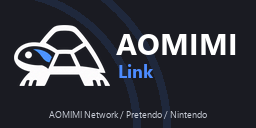
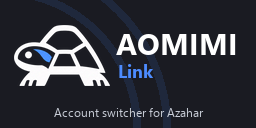
Rewrite README, add event friends on switch, clean up other accounts
- README.md (English) and README.ja.md (Japanese) describe AOMIMI Link
  instead of Nimbus, in the style of the original README. LICENSE is kept
  as is.
- Add the AOMIMI event players right after switching to the AOMIMI account,
  before the reboot, and quietly on launch if they are missing.
- On the Nintendo and Pretendo Network accounts, remove leftover AOMIMI event
  players (PIDs 1999999001 and 1999999002) from the friend list.
- Home Menu: description "AOMIMI Link", publisher AOMIMIGAME; banner
  subtitle "Account switcher for Azahar".
- Update AOMIMI.md.

Changed region(s): [[0.1875, 0.8438, 0.8125, 0.9375]]

diff --git a/app/source/aomimi/aomimi.cpp b/app/source/aomimi/aomimi.cpp
@@ -5,6 +5,91 @@
 #include "../sysmodules/httpc.hpp"
 
 namespace {
+    // * イベントの相手をフレンドに足す。login なら必要に応じてログインする。report なら失敗を画面の文に残す
+    void addPlayers(MainStruct *mainStruct, bool login, bool report) {
+        constexpr s64 waitNanoseconds = 15000000000LL;
+
+        Handle event = 0;
+        Result rc = svcCreateEvent(&event, RESET_ONESHOT);
+        if (R_FAILED(rc)) {
+            if (report) {
+                LOG_NIMBUS_ERROR(mainStruct, std::format("Event players: event failed {:08X}", (u32)rc).c_str());
+            }
+            return;
+        }
+
+        bool online = false;
+        FRD_IsOnline(&online);
+        if (!online && login) {
+            rc = FRD_Login(event);
+            if (R_SUCCEEDED(rc)) {
+                rc = svcWaitSynchronization(event, waitNanoseconds);
+            }
+            FRD_IsOnline(&online);
+        }
+
+        if (!online) {
+            if (report) {
+                LOG_NIMBUS_ERROR(mainStruct, std::format("Event players: not online {:08X}", (u32)rc).c_str());
+            }
+            svcCloseHandle(event);
+            return;
+        }
+
+        bool added = false;
+        for (const u32 pid : Aomimi::EVENT_PLAYERS) {
+            u64 friendCode = 0;
+            bool known = false;
+            if (R_FAILED(FRD_PrincipalIdToFriendCode(pid, &friendCode)) || R_FAILED(FRD_IsInFriendList(friendCode, &known)) || known) {
+                continue;
+            }
+
+            svcClearEvent(event);
+            rc = FRDA_AddFriendOnline(event, pid);
+            if (R_SUCCEEDED(rc)) {
+                rc = svcWaitSynchronization(event, waitNanoseconds);
+            }
+            if (R_FAILED(rc)) {
+                if (report) {
+                    LOG_NIMBUS_ERROR(mainStruct, std::format("Event players: add failed {:08X}", (u32)rc).c_str());
+                }
+                continue;
+            }
+            added = true;
+        }
+
+        if (added) {
+            rc = FRDA_Save();
+            if (R_FAILED(rc) && report) {
+                LOG_NIMBUS_ERROR(mainStruct, std::format("Event players: save failed {:08X}", (u32)rc).c_str());
+            }
+        }
+
+        svcCloseHandle(event);
+    }
+
+    // * 今のアカウントのフレンド一覧から、イベントの相手だけを消す（ほかのフレンドには触らない）
+    void removeEventPlayers() {
+        constexpr u32 limit = 100; // * 3DS のフレンドは 100 人まで
+        static FriendKey keys[limit];
+        u32 count = 0;
+        if (R_FAILED(FRD_GetFriendKeyList(keys, &count, 0, limit))) {
+            return;
+        }
+
+        bool removed = false;
+        for (u32 n = 0; n < count && n < limit; n++) {
+            for (const u32 pid : Aomimi::EVENT_PLAYERS) {
+                if (keys[n].principalId == pid && R_SUCCEEDED(FRDA_RemoveFriend(pid, keys[n].localFriendCode))) {
+                    removed = true;
+                }
+            }
+        }
+        if (removed) {
+            FRDA_Save();
+        }
+    }
+
     constexpr Result ResultAlreadyExists = MAKERESULT(RL_STATUS, RS_INVALIDARG, RM_HTTP, RD_ALREADY_EXISTS);
     constexpr Result ResultNoAzaharCommand = MAKERESULT(RL_PERMANENT, RS_WRONGARG, RM_OS, 47);
 
@@ -69,59 +154,47 @@ namespace Aomimi {
     }
 
     void addEventPlayers(MainStruct *mainStruct) {
-        constexpr s64 waitNanoseconds = 15000000000LL;
+        addPlayers(mainStruct, true, true);
+    }
 
-        Handle event = 0;
-        Result rc = svcCreateEvent(&event, RESET_ONESHOT);
-        if (R_FAILED(rc)) {
-            LOG_NIMBUS_ERROR(mainStruct, std::format("Event players: event failed {:08X}", (u32)rc).c_str());
+    void addEventPlayersAfterSwitch(MainStruct *mainStruct) {
+        // * unloadAccount で入った「通信をしない状態」を解いて、ネットにつながるのを少し待つ
+        if (R_FAILED(NDMU_LeaveExclusiveState())) {
             return;
         }
-
-        bool online = false;
-        FRD_IsOnline(&online);
-        if (!online) {
-            rc = FRD_Login(event);
-            if (R_SUCCEEDED(rc)) {
-                rc = svcWaitSynchronization(event, waitNanoseconds);
+        const bool ac = R_SUCCEEDED(acInit());
+        if (ac) {
+            for (int n = 0; n < 40; n++) {
+                u32 status = 0;
+                if (R_SUCCEEDED(ACU_GetWifiStatus(&status)) && status != 0) {
+                    break;
+                }
+                svcSleepThread(250000000LL);
             }
-            FRD_IsOnline(&online);
         }
+        addPlayers(mainStruct, true, false);
+        if (ac) {
+            acExit();
+        }
+    }
 
-        if (!online) {
-            LOG_NIMBUS_ERROR(mainStruct, std::format("Event players: not online {:08X}", (u32)rc).c_str());
-            svcCloseHandle(event);
+    void checkEventPlayersOnce(MainStruct *mainStruct) {
+        static bool checked = false;
+        if (checked) {
             return;
         }
-
-        bool added = false;
-        for (const u32 pid : EVENT_PLAYERS) {
-            u64 friendCode = 0;
-            bool known = false;
-            if (R_FAILED(FRD_PrincipalIdToFriendCode(pid, &friendCode)) || R_FAILED(FRD_IsInFriendList(friendCode, &known)) || known) {
-                continue;
-            }
-
-            svcClearEvent(event);
-            rc = FRDA_AddFriendOnline(event, pid);
-            if (R_SUCCEEDED(rc)) {
-                rc = svcWaitSynchronization(event, waitNanoseconds);
-            }
-            if (R_FAILED(rc)) {
-                LOG_NIMBUS_ERROR(mainStruct, std::format("Event players: add failed {:08X}", (u32)rc).c_str());
-                continue;
-            }
-            added = true;
+        checked = true;
+        if (mainStruct->needsReboot || mainStruct->errorString[0] != 0) {
+            return;
         }
-
-        if (added) {
-            rc = FRDA_Save();
-            if (R_FAILED(rc)) {
-                LOG_NIMBUS_ERROR(mainStruct, std::format("Event players: save failed {:08X}", (u32)rc).c_str());
-            }
+        if (mainStruct->currentAccount != NascEnvironment::NASC_ENV_Dev) {
+            // * Pretendo や任天堂のアカウントに、前の版で足したイベントの相手が残っていれば消す。
+            // * この PID は AOMIMI Network の中だけの番号で、ほかのサーバーでは別の人に割り振られるかもしれない
+            removeEventPlayers();
+            return;
         }
-
-        svcCloseHandle(event);
+        // * 起動したときにオンラインなら、足りない相手だけ黙って足す（ログインはしない。待たせないため）
+        addPlayers(mainStruct, false, false);
     }
 }
 

diff --git a/app/source/states/MainUI.cpp b/app/source/states/MainUI.cpp
@@ -659,6 +659,8 @@ bool MainUI::drawUI(MainStruct *mainStruct, C3D_RenderTarget* top_screen, C3D_Re
         }
     }
 
+    Aomimi::checkEventPlayersOnce(mainStruct); // aomimi: AOMIMI なら足りないイベントの相手を足し、Pretendo・任天堂なら残りを消す
+
     // if start is pressed, exit to hbl/the home menu depending on if the app was launched from cia or 3dsx
     if (kDown & KEY_START) return true;
 
@@ -785,6 +787,10 @@ bool MainUI::drawUI(MainStruct *mainStruct, C3D_RenderTarget* top_screen, C3D_Re
             mainStruct->needsReboot = true;
             mainStruct->buttonWasPressed = false;
             return false;
+        }
+
+        if (accountId == Aomimi::ACCOUNT_ID) {
+            Aomimi::addEventPlayersAfterSwitch(mainStruct); // aomimi: 再起動の前にイベントの相手をフレンドに足す
         }
 
         mainStruct->needsReboot = true;

diff --git a/app/source/aomimi/aomimi.hpp b/app/source/aomimi/aomimi.hpp
@@ -9,6 +9,10 @@ namespace Aomimi {
 
     // * イベントの相手をフレンドに足す。失敗しても切り替えは止めない（イベントに出られないだけ）
     void addEventPlayers(MainStruct *mainStruct);
+    // * AOMIMI に切り替えた直後（再起動の前）に足す。失敗しても切り替えは止めない
+    void addEventPlayersAfterSwitch(MainStruct *mainStruct);
+    // * 起動したときに 1 回だけ: AOMIMI のアカウントなら足りない相手を黙って足す。Pretendo・任天堂のアカウントなら、残っているイベントの相手を消す
+    void checkEventPlayersOnce(MainStruct *mainStruct);
 
     // * フレンドのアカウントを作るときの環境（2 = Pretendo は Test、3 = AOMIMI は Dev）
     NascEnvironment environmentOf(u8 friend_account_id);

diff --git a/app/aomimi/make_meta.py b/app/aomimi/make_meta.py
@@ -36,11 +36,11 @@ def make_banner():
     banner.alpha_composite(turtle, (14, (112 - turtle.height) // 2))
 
     title = ImageFont.truetype(FONT_BOLD, 30)
-    sub = ImageFont.truetype(FONT, 9)
+    sub = ImageFont.truetype(FONT, 12)
     draw.text((116, 22), 'AOMIMI', font=title, fill=(255, 255, 255, 255))
     draw.text((118, 58), 'Link', font=ImageFont.truetype(FONT_BOLD, 18), fill=ACCENT)
-    line = 'AOMIMI Network / Pretendo / Nintendo'
-    draw.text(((256 - draw.textlength(line, font=sub)) / 2, 108), line, font=sub, fill=(200, 205, 215, 255))
+    line = 'Account switcher for Azahar'
+    draw.text(((256 - draw.textlength(line, font=sub)) / 2, 104), line, font=sub, fill=(200, 205, 215, 255))
     banner.save(os.path.join(META, 'banner.png'))
 
 

diff --git a/README.md b/README.md
@@ -1,29 +1,45 @@
-# Nimbus
-## Pretendo account manager for the 3DS
+# AOMIMI Link
+## AOMIMI Network / Pretendo / Nintendo account manager for Azahar
+
+AOMIMI Link is a modified version of [Nimbus](https://github.com/PretendoNetwork/nimbus) by Pretendo Network.
+It is not affiliated with Pretendo Network or Nintendo. Please do not contact Pretendo Network about AOMIMI Link.
+
+[日本語](README.ja.md)
 
 ## Usage
 
-1. Grab the latest app and IPS patches from the [Releases](https://github.com/PretendoNetwork/nimbus/releases) page
-2. Extract to the root of your 3DS SD card
-3. Install the Nimbus homebrew using FBI (or FBI Reloaded) if using the CIA build
-4. Run the Nimbus homebrew and select either to use a Pretendo or Nintendo account
-     - If it doesn't work, reboot your 3DS while holding SELECT and ensure that "Enable loading external FIRMs and modules" and "Enable game patching" are both turned on, as well as ensuring that your Luma3DS version is 13.0 or higher.
-5. Enable the Nimbus plugin by entering into the Rosalina menu and setting the "Plugin Loader" to "Enabled"
+1. Scan the URL below with "Remote Install" → "Scan QR Code" in FBI (or grab `aomimi-link.cia` from the [Releases](https://github.com/AOMIMIGAME/AOMIMI-Link/releases) page and install it using FBI)
+    - `https://github.com/AOMIMIGAME/AOMIMI-Link/releases/latest/download/aomimi-link.cia`
+2. Run AOMIMI Link in Azahar and select whether to use an AOMIMI, Pretendo or Nintendo account
+    - The first time you select AOMIMI, a new account for AOMIMI Network is created
+    - Selecting AOMIMI also adds the event players to your friend list (if that fails, they are added the next time you open AOMIMI Link)
+    - Switching accounts reboots the system
+
+- Opening AOMIMI Link on a Pretendo or Nintendo account removes any leftover event players from that friend list (other friends are not touched)
+- AOMIMI Link is for Azahar only. The IPS patches and the plugin for real hardware are not included
+- To update, scan the same URL with FBI again. It always installs the latest version
 
 ## Building
 
-1. Clone the repository recursively using `git clone https://github.com/PretendoNetwork/nimbus --recursive`
-    - If you have cloned the repository previously, please run `git pull` and `make clean` while in the nimbus folder to avoid errors and broken files
-    - On top of that, if you cloned it before 1.0.2 released, you might also need to run `git submodule update --init --recursive` while in the nimbus folder
-2. Install devkitARM, libctru 2.5.0 or later, `3ds-curl`, `3ds-mbedtls`, `3ds-zlib`, [CTRPluginFramework](https://gitlab.com/thepixellizeross/ctrpluginframework), [3gxtool](https://gitlab.com/thepixellizeross/3gxtool), [armips](https://github.com/Kingcom/armips), [makerom](https://github.com/3DSGuy/Project_CTR), [bannertool](https://github.com/Steveice10/bannertool) and [flips](https://github.com/Alcaro/Flips)
-3. Copy [decompressed `code.bin`](https://github.com/PretendoNetwork/nimbus/blob/main/DECOMPRESSING.md) files from the act, friends, http, miiverse, socket and ssl sysmodules in their respective `patches` directories (any Miiverse code.bin works for the miiverse module)
-4. Run `make`
+1. Clone the repository using `git clone https://github.com/AOMIMIGAME/AOMIMI-Link`
+2. Run the build script in the devkitARM image with Docker
+    - `docker run --rm -v "$PWD:/src" devkitpro/devkitarm:latest bash /src/build-in-docker.sh`
+3. You will get `app/nimbus.cia`
+
+- To regenerate the button and icon images, run `python make_buttons.py` and `python make_meta.py` in `app/aomimi` (requires Pillow)
+- Updates to the original Nimbus are checked and merged daily by GitHub Actions
+
+## License
+
+AOMIMI Link is distributed under the GNU General Public License v3.0, the same as Nimbus (see [LICENSE](LICENSE)).
+The changes from Nimbus are listed in [AOMIMI.md](AOMIMI.md).
 
 ## Credits
 
 Thanks to:
 
-- [pinklimes](https://github.com/gitlimes) for the CIA version banner
+- [Pretendo Network](https://github.com/PretendoNetwork) for Nimbus, which AOMIMI Link is based on
+- [pinklimes](https://github.com/gitlimes) for the Nimbus CIA version banner
 - [TraceEntertains](https://github.com/TraceEntertains) for making a CIA version of Nimbus and maintaining the project
 - [DaniElectra](https://github.com/DaniElectra) for making the 3DS HTTP and Socket patches and maintaining the project
 - [SciresM](https://github.com/SciresM) for making the 3DS SSL patches

diff --git a/README.ja.md b/README.ja.md
@@ -1,0 +1,51 @@
+# AOMIMI Link
+## Azahar 用の AOMIMI Network / Pretendo / Nintendo アカウントマネージャー
+
+AOMIMI Link は、Pretendo Network の [Nimbus](https://github.com/PretendoNetwork/nimbus) をもとにした改造版です。
+Pretendo Network および任天堂とは関係ありません。AOMIMI Link について、Pretendo Network に問い合わせないでください。
+
+[English](README.md)
+
+## 使い方
+
+1. FBI の「Remote Install」→「Scan QR Code」で下の URL を読み込む（または [Releases](https://github.com/AOMIMIGAME/AOMIMI-Link/releases) ページから `aomimi-link.cia` を入手し、FBI でインストールする）
+    - `https://github.com/AOMIMIGAME/AOMIMI-Link/releases/latest/download/aomimi-link.cia`
+2. Azahar で AOMIMI Link を起動し、AOMIMI・Pretendo・Nintendo のどのアカウントを使うかを選ぶ
+    - AOMIMI を初めて選んだときは、AOMIMI Network 用のアカウントが新しく作られます
+    - AOMIMI を選ぶと、イベントの相手もフレンドに追加されます（追加できなかったときは、次に AOMIMI Link を開いたときに追加されます）
+    - アカウントを切り替えると、本体が再起動します
+
+- Pretendo か Nintendo のアカウントで AOMIMI Link を開くと、そのフレンド一覧に残っているイベントの相手を消します（ほかのフレンドには触りません）
+- AOMIMI Link は Azahar 専用です。実機用の IPS パッチとプラグインは含まれていません
+- 更新するときは、同じ URL を FBI でもう一度読み込んでください。いつも最新版が入ります
+
+## ビルド
+
+1. `git clone https://github.com/AOMIMIGAME/AOMIMI-Link` で、リポジトリをクローンする
+2. Docker で devkitARM のイメージを使い、ビルドスクリプトを実行する
+    - `docker run --rm -v "$PWD:/src" devkitpro/devkitarm:latest bash /src/build-in-docker.sh`
+3. `app/nimbus.cia` ができる
+
+- ボタンやアイコンの画像を作り直すときは、`app/aomimi` の中で `python make_buttons.py` と `python make_meta.py` を実行してください（Pillow が必要です）
+- 公式の Nimbus の更新は、GitHub Actions が毎日確認して取り込みます
+
+## ライセンス
+
+AOMIMI Link は、Nimbus と同じ GNU General Public License v3.0 で配布しています（[LICENSE](LICENSE)）。
+Nimbus からの変更点は [AOMIMI.md](AOMIMI.md) にまとめています。
+
+## クレジット
+
+感謝を込めて:
+
+- [Pretendo Network](https://github.com/PretendoNetwork): AOMIMI Link のもとになった Nimbus
+- [pinklimes](https://github.com/gitlimes): Nimbus の CIA 版のバナー
+- [TraceEntertains](https://github.com/TraceEntertains): Nimbus の CIA 版の作成と、プロジェクトのメンテナンス
+- [DaniElectra](https://github.com/DaniElectra): 3DS の HTTP と Socket のパッチの作成と、プロジェクトのメンテナンス
+- [SciresM](https://github.com/SciresM): 3DS の SSL パッチの作成
+- [zaksabeast](https://github.com/zaksabeast): 元になった 3ds-Friend-Account-Manager と、friends と act のシステムタイトルについての研究のすべて
+- [shutterbug2000](https://github.com/shutterbug2000): GUI
+- [libctru](https://github.com/devkitPro/libctru): `frda.c` のベース、homebrew のテンプレート、その他のライブラリ関数（システムフォントの関数の一部については citro2d にも感謝）
+- [Universal-Core](https://github.com/Universal-Team/Universal-Core): 文字列の描画関数
+- [Fangal-Airbag](https://github.com/Fangal-Airbag): アカウント切り替えの GUI をボタン操作に対応させたこと
+- そのほかすべての 3DS の研究者たち

diff --git a/AOMIMI.md b/AOMIMI.md
@@ -18,8 +18,9 @@ Modified by the AOMIMI project, starting 2026-11-11. Changes from the original N
 - Added a third account (friend account 3, NASC environment Dev) for AOMIMI Network, next to Nintendo (account 1) and Pretendo Network (account 2). The Pretendo Network account works the same as in the original Nimbus.
 - On Azahar, the URL replacement rules for AOMIMI Network are registered when the AOMIMI account is selected and removed otherwise (`app/source/aomimi/`).
 - The account screen shows three buttons. New button images, home menu icon, banner and top screen image (`app/aomimi/make_buttons.py`, `app/aomimi/make_meta.py`). The Pretendo Network logo is only used on the button that selects the Pretendo Network account.
-- When the AOMIMI account is selected again, the AOMIMI event players are added to the friend list.
-- Renamed the application to AOMIMI Link (title id `0xD40D3`, so it can be installed next to the original Nimbus).
+- The AOMIMI event players are added to the friend list right after switching to the AOMIMI account (before the reboot). If that fails, they are added the next time AOMIMI Link is opened on the AOMIMI account, or when the AOMIMI account is selected again.
+- Renamed the application to AOMIMI Link (title id `0xD40D3`, so it can be installed next to the original Nimbus). The Home Menu shows AOMIMIGAME as the publisher; the original authors are credited in the README and on the top screen.
 - Only the app is built and distributed. The sysmodule patches and the plugin for real hardware are not changed and are not part of AOMIMI Link.
 - The scam warning on the top screen is split into three lines, because the longer name did not fit in two.
 - The "Launch plugin" control (Y) is disabled, because the plugin is not distributed. "Unlink PNID" (X) is only shown and used while the Pretendo Network button is selected.
+- When AOMIMI Link is opened on the Nintendo or Pretendo Network account, the AOMIMI event players (PIDs 1999999001 and 1999999002, which only exist on AOMIMI Network) are removed from that friend list if an earlier version left them there. Other friends are not touched.
